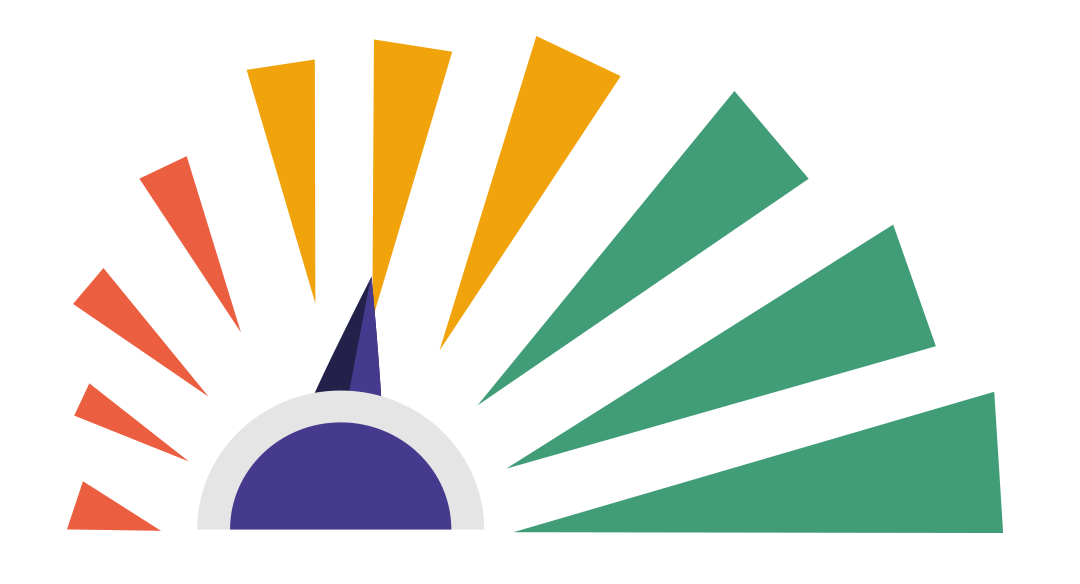
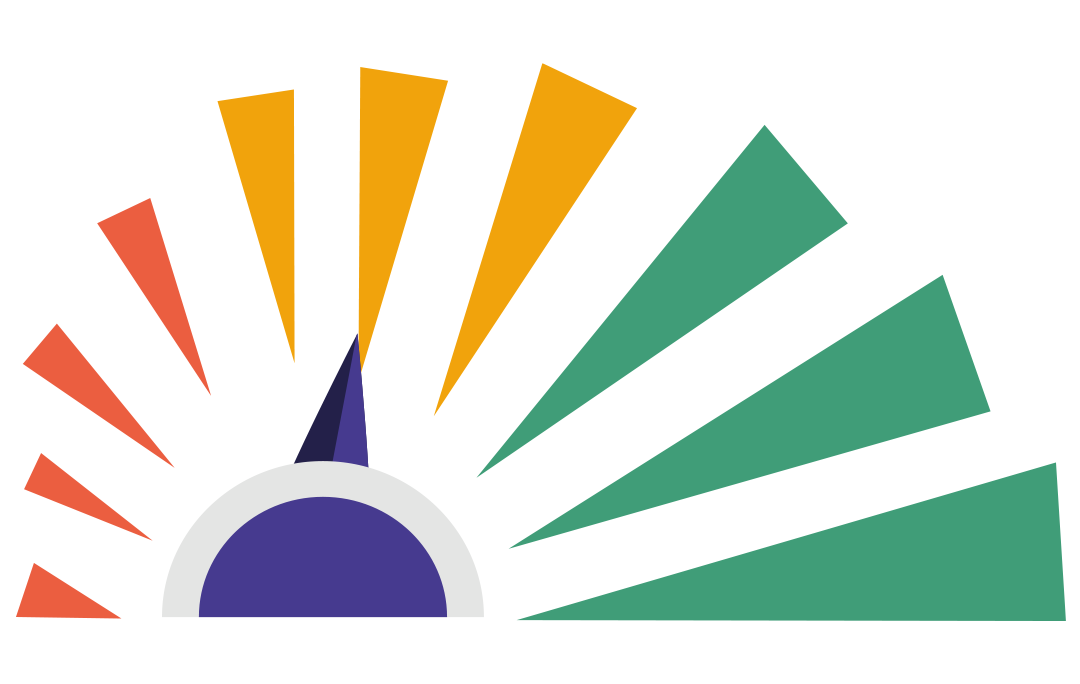
feat: alteracoes waves

diff --git a/pages/report/index.js b/pages/report/index.js
@@ -111,7 +111,7 @@ export default function Report() {
         </Column>
         <Column full>
           <View reportText width="60vw" margin="8vw 0" cookie>
-            <Paragraph>
+            <Paragraph textAlign="start">
               {dynamicReport[2][leadReport?.general?.stage]}
             </Paragraph>
           </View>
@@ -141,7 +141,7 @@ export default function Report() {
         </Column>
         <DataBox
           collapsableData={employerBrandResponses}
-          title1="presença da marca empregadora "
+          title1="Presença da marca empregadora "
           title2=""
           graphValue={leadReport.employerBrand?.value}
           color="purple"
@@ -150,7 +150,7 @@ export default function Report() {
         <View flex around width="100%" margin="6vw 0 0 0" />
         <DataBox
           collapsableData={internalExternalEngagementResponses}
-          title1="engajamento interno e externo "
+          title1="Engajamento interno e externo "
           graphValue={leadReport.internalExternalEngagement?.value}
           color="survival"
           paragraph={dynamicReport[4][leadReport?.general?.stage]}
@@ -158,7 +158,7 @@ export default function Report() {
         <View flex around width="100%" margin="6vw 0 0 0" />
         <DataBox
           collapsableData={talentJourneyResponses}
-          title1="jornada do talento "ywnrds
+          title1="Jornada do talento "ywnrds
           graphValue={leadReport.talentJourney?.value} 
           color="optimization"
           paragraph={dynamicReport[5][leadReport?.general?.stage]}
@@ -166,7 +166,7 @@ export default function Report() {
         <View flex around width="100%" margin="6vw 0 0 0" />
         <DataBox
           collapsableData={structureMetricsResponses}
-          title1="estrutura do time de métrica"
+          title1="Estrutura do time de métrica"
           graphValue={leadReport.structureMetrics?.value} 
           color="prosperity"
           paragraph={dynamicReport[6][leadReport?.general?.stage]}

diff --git a/data.js b/data.js
@@ -93,7 +93,7 @@ export const dynamicReportResponses = {
   employerBrand: [
     {
       title: 'SITE DE CARREIRA',
-      text: 'Esse é um dos passos mais básicos para estruturar, como o seu candidato vai te conhecer se você não divulga uma empresa como marca empregadora se ele não encontra suas vagas no site'
+      text: 'Esse é um dos passos mais básicos para estruturar, como o seu candidato vai te conhecer se você não divulga uma empresa como marca empregadora se ele não encontra suas vagas no site.'
     },
     {
       title: 'ATUALIZAÇÃO DE SITE',

diff --git a/components/Paragraph/index.js b/components/Paragraph/index.js
@@ -3,9 +3,8 @@ import styled, { css } from "styled-components";
 const Paragraph = styled.p`
   font-family: Montserrat;
   font-size: ${({ highlight }) => (highlight ? "1.8vw" : "1.25vw")};
-  text-align: ${({ center }) => (center ? "center" : "justify")};
+  text-align: ${({ textAlign }) => (textAlign ? textAlign : "justify")};
   color: ${({ white }) => (white ? "#fff" : "#000")};
-  ${ ({ textAlign }) => css`text-align: "${textAlign}"`}
   @media (max-width: 768px) {
     margin-top: 5vw;
     font-size: 3.5vw;

diff --git a/pages/index.js b/pages/index.js
@@ -86,7 +86,7 @@ export default function App() {
           <EbCard data={EbData} />
         </Column>
         <Column margin="5vw 0" full>
-          <Paragraph center highlight>
+          <Paragraph textAlign="center" highlight>
             A Matchbox utilizou exemplos reais de empresas que possuem um
             trabalho extenso de Marca Empregadora e Marketing de Recrutamento
             para a construção deste Termômetro de Employer Branding.

diff --git a/components/DataBox/index.js b/components/DataBox/index.js
@@ -65,7 +65,7 @@ export default function DataBox({
               <Graph value={graphValue} color={color} />
             </View>
             <View padding="0vw 5vw 0vw 0vw">
-              <Paragraph>{paragraph}</Paragraph>
+              <Paragraph textAlign="start">{paragraph}</Paragraph>
             </View>
           </Column>
           <Column small>

diff --git a/components/AppContext/index.js b/components/AppContext/index.js
@@ -112,7 +112,7 @@ const sample3 = {
 }
 
 export function AppWrapper({ children }) {
-  const [leadInfo, updateLeadInfo] = useState(sample3);
+  const [leadInfo, updateLeadInfo] = useState(sample1);
   const [leadReport, setLeadReport] = useState({}); 
 
   return (

diff --git a/components/Waves/index.js b/components/Waves/index.js
@@ -9,7 +9,7 @@ const Waves = styled.div`
       height: 39vw;
       :before {
         content: "";
-        top: 0;
+        top: ${props.small ? `-10vw` : 0};
         left: 0;
         position: absolute;
         background: url("./assets/img/wave.png");

diff --git a/components/Collapsable/style.js b/components/Collapsable/style.js
@@ -46,7 +46,7 @@ export const Collapses = styled(Collapse)`
     font-size: 1vw;
     border-radius: 8px;
     padding: 1.3vw 1.8vw;
-    text-align: justify;
+    text-align: start;
     
   }
   /* .rc-collapse-content-active {
